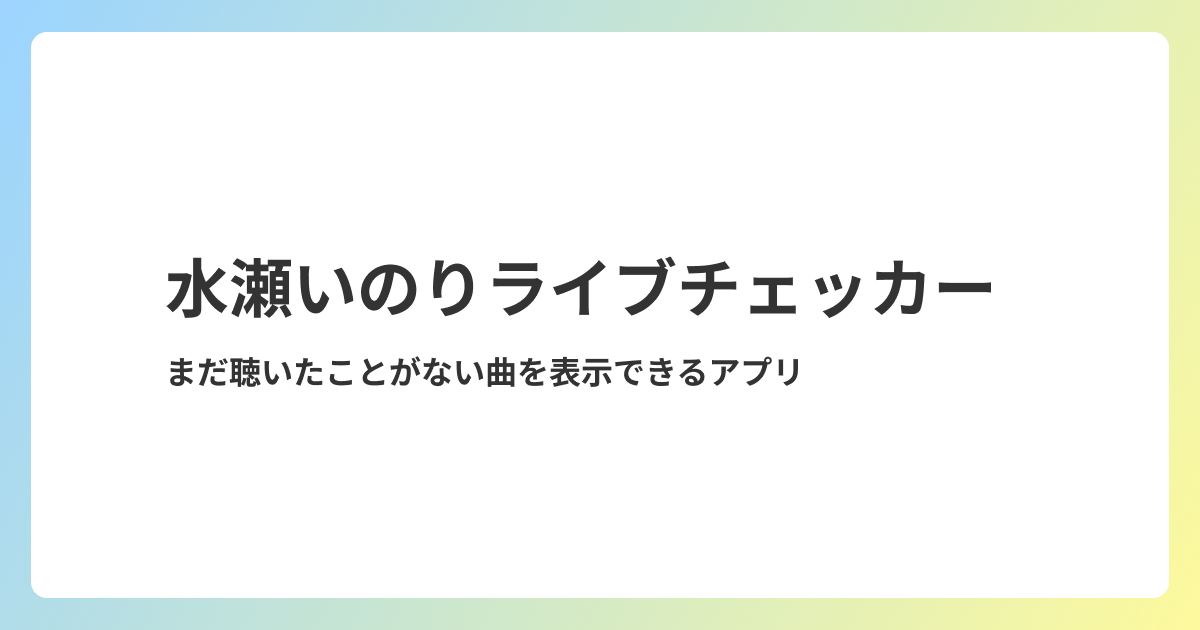
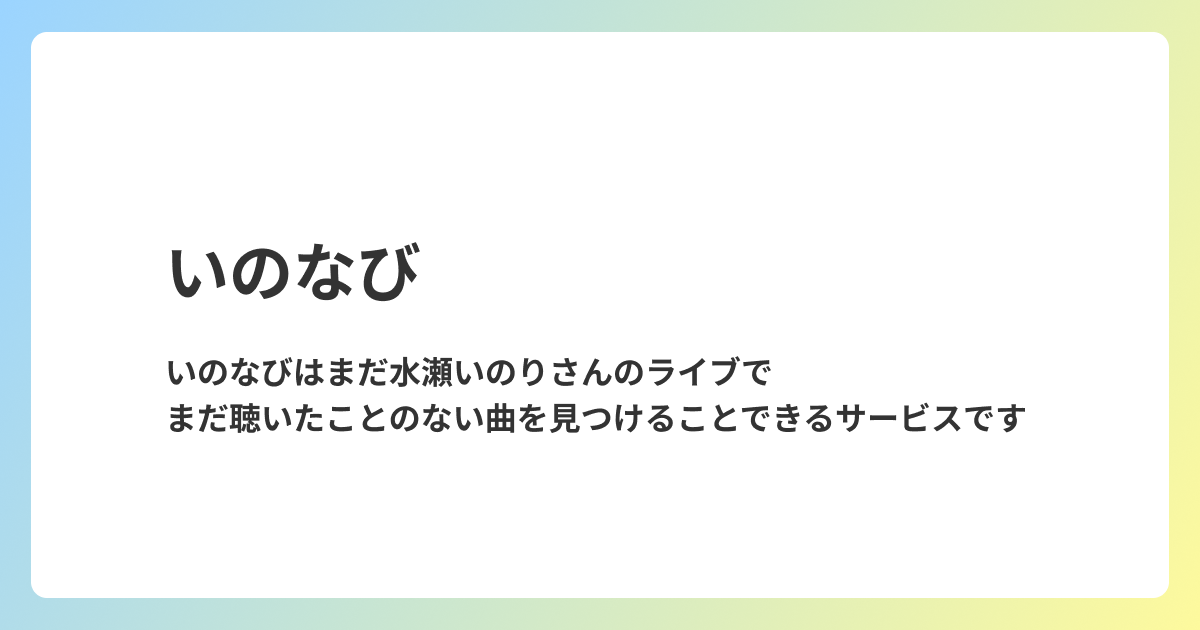
update: ogpを追加

Changed region(s): [[0.1233, 0.5429, 0.8633, 0.6937], [0.1233, 0.3921, 0.8325, 0.5127]]

diff --git a/src/pages/Live/CheckBoxForms.tsx b/src/pages/Live/CheckBoxForms.tsx
@@ -6,8 +6,11 @@ import { Checkbox } from '@/components/ui/checkbox';
 import { Button } from '@/components/ui/button';
 import { useNavigate } from 'react-router-dom';
 import { FormValues } from '@/types';
+import { useState } from 'react';
+import Popup from '@/components/ui/popup';
 
 const CheckBoxForms = ({ params }: { params: LiveName[] }) => {
+  const [isAlertDialogOpen, setAlertDialogOpen] = useState(false);
   const navigate = useNavigate();
 
   const form = useForm<FormValues>({
@@ -19,10 +22,41 @@ const CheckBoxForms = ({ params }: { params: LiveName[] }) => {
   const handleButtonClick = (e: React.SyntheticEvent) => {
     e.preventDefault();
     const selectedItems = form.watch('items');
+    // Inori Minase LIVE TOUR 2024 heart bookmarkが選択されているかチェック
+    // TODO: ライブツアー2024のデータを追加したら、IDを修正する
+    const hasAcousticLive = selectedItems.includes(
+      'inorimachi-town-meeting-2024-acoustic-live-wonder-caravan!-',
+    );
+
+    if (hasAcousticLive) {
+      // Inori Minase LIVE TOUR 2024 heart bookmarkが選択されていた場合、Popup を表示
+      setAlertDialogOpen(true);
+    } else {
+      // 選択されていない場合は通常の処理を実行
+      proceedWithNavigation(selectedItems);
+    }
+  };
+
+  // 選択されたアイテムでナビゲーションを実行する関数
+  function proceedWithNavigation(selectedItems: string[]) {
     const queryParams = new URLSearchParams();
     selectedItems.forEach((item) => queryParams.append('live_id', item));
     navigate(`/venue?${queryParams.toString()}`);
-  };
+  }
+
+  // 'はい' ボタンがクリックされた時に実行する関数
+  //  画面遷移する
+  function confirmAcousticLive() {
+    const selectedItems = form.watch('items');
+    proceedWithNavigation(selectedItems);
+    setAlertDialogOpen(false);
+  }
+
+  // 'いいえ' ボタンがクリックされた時に実行する関数
+  // POPUPを非表示にする
+  function cancelAcousticLive() {
+    setAlertDialogOpen(false);
+  }
 
   const inoriMinaseLives = params.filter((param) => param.liveType === '水瀬いのり個人名義');
   const townMeetingLives = params.filter((param) => param.liveType === '町民集会');
@@ -103,7 +137,7 @@ const CheckBoxForms = ({ params }: { params: LiveName[] }) => {
         disabled={form.watch('items').length === 0}
         onClick={handleButtonClick}
       >
-        次へ進む
+        会場を選択する
       </Button>
       <Link to='/' style={{ textDecoration: 'none' }}>
         <Button
@@ -113,6 +147,15 @@ const CheckBoxForms = ({ params }: { params: LiveName[] }) => {
           最初に戻る
         </Button>
       </Link>
+      <Popup
+        isOpen={isAlertDialogOpen}
+        onClose={cancelAcousticLive}
+        description='Inori Minase LIVE TOUR 2024 heart bookmarkのネタバレが含まれますが、よろしいですか？'
+        okText='会場を選択する'
+        cancelText='選び直す'
+        onConfirm={confirmAcousticLive}
+        onCancel={cancelAcousticLive}
+      />
     </Form>
   );
 };

diff --git a/index.html b/index.html
@@ -2,10 +2,10 @@
 <html lang="ja">
   <head>
     <meta charset="UTF-8" />
-    <meta property="og:title" content="inori-track" />
+    <meta property="og:title" content="いのなび" />
     <meta
       property="og:description"
-      content="水瀬いのりさんのライブでまだ聴いたことがない曲の一覧を表示するサービスです。"
+      content="いのなびはまだ水瀬いのりさんのライブで、まだ聴いたことのない曲を見つけることできるサービスです"
     />
     <meta property="og:type" content="website" />
     <meta property="og:url" content="https://inori-track-suntory-y-water.vercel.app/" />
@@ -16,10 +16,10 @@
     <meta property="og:image:width" content="1200" />
     <meta property="og:image:height" content="630" />
     <meta name="twitter:card" content="summary_large_image" />
-    <meta name="twitter:title" content="inori-track" />
+    <meta name="twitter:title" content="いのなび" />
     <meta
       name="twitter:description"
-      content="水瀬いのりさんのライブでまだ聴いたことがない曲の一覧を表示するサービスです。"
+      content="いのなびはまだ水瀬いのりさんのライブで、まだ聴いたことのない曲を見つけることできるサービスです"
     />
     <meta name="twitter:image:type" content="image/png" />
     <meta name="twitter:image:width" content="1200" />
@@ -32,7 +32,7 @@
       rel="stylesheet"
     />
     <meta name="viewport" content="width=device-width, initial-scale=1.0" />
-    <title>Inori track</title>
+    <title>いのなび</title>
   </head>
   <body>
     <div id="root"></div>

diff --git a/src/Home.tsx b/src/Home.tsx
@@ -3,13 +3,14 @@ import { Button } from './components/ui/button';
 
 function Home() {
   return (
-    <div className='md:w-2/3'>
+    <div className='md:w-3/4'>
       <h1 className='pb-4 font-bold text-2xl'>ライブチェッカー</h1>
       <div className='mb-4 space-y-1'>
         <p>
-          水瀬いのりさんの曲で、自分がまだライブで聴いたことのない曲を一覧で表示することができます。
+          いのなびはまだ水瀬いのりさんのライブで、まだ聴いたことのない曲を見つけることできるサービスです
           <br />
-          今すぐ始めるを押したあと、ガイドに従って入力してください。
+          <br />
+          今すぐ始めるを押したあと、自分が参加したライブ名と会場名を選ぶことで、まだ聴いたことのない曲を一覧で表示することができます。
         </p>
       </div>
       <Link to='/live' style={{ textDecoration: 'none' }}>

diff --git a/src/Layout.tsx b/src/Layout.tsx
@@ -6,7 +6,7 @@ import Aside from './components/Aside';
 
 const Layout = ({ children }: { children: React.ReactNode }) => {
   return (
-    <ThemeProvider defaultTheme='dark' storageKey='vite-ui-theme'>
+    <ThemeProvider defaultTheme='system' storageKey='vite-ui-theme'>
       <div className='flex flex-col min-h-screen'>
         <Header />
         <div className='flex-1'>

diff --git a/src/components/Header.tsx b/src/components/Header.tsx
@@ -20,7 +20,7 @@ const Header = () => {
       <div className='container px-4 flex h-14 items-center'>
         <Link to='/' style={{ textDecoration: 'none' }}>
           <h1 className='flex ml-3 text-3xl title-font font-medium items-center md:mb-0'>
-            Inori Track
+            いのなび
           </h1>
         </Link>
 

diff --git a/src/pages/Venue/VenueCheckBoxForms.tsx b/src/pages/Venue/VenueCheckBoxForms.tsx
@@ -72,7 +72,7 @@ const VenueCheckBoxForms = ({ params }: { params: SelectLiveNameAndVenueProps[] 
         disabled={form.watch('items').length === 0}
         onClick={handleButtonClick}
       >
-        次へ進む
+        結果を見る
       </Button>
       <Link to='/live' style={{ textDecoration: 'none' }}>
         <Button
